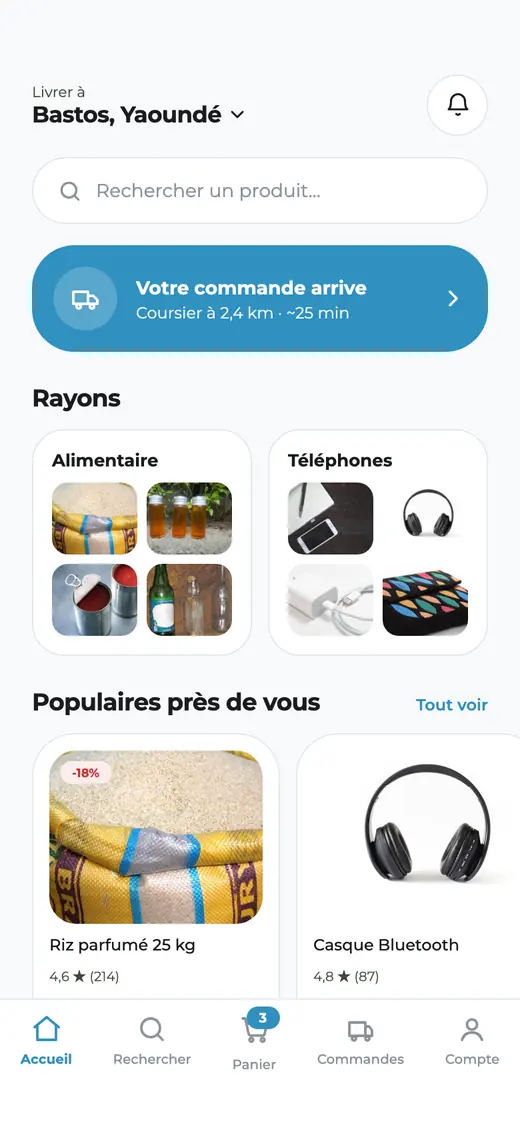
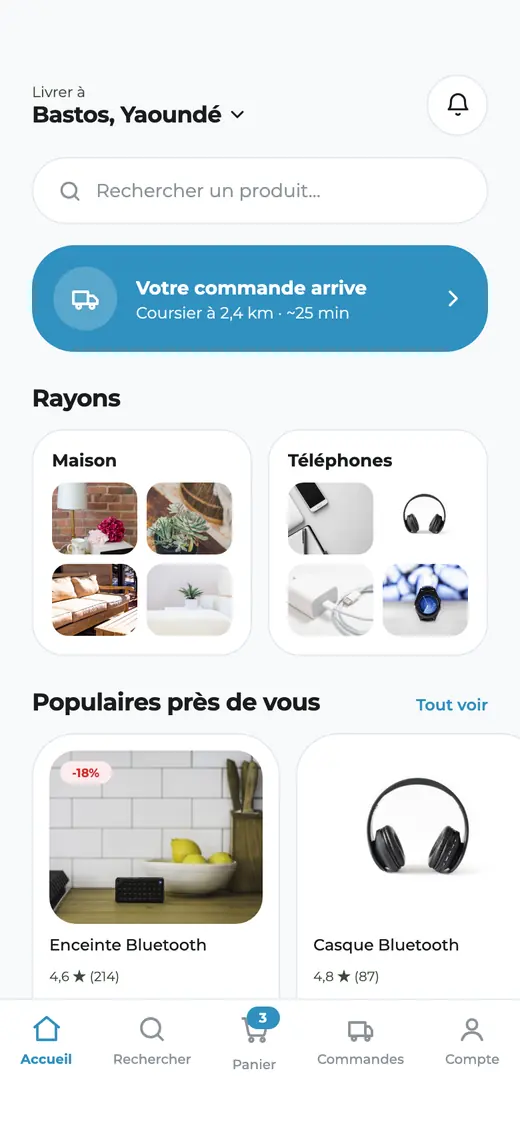
fix(marketplace): aperçus sans alimentation, photos récentes
- Aperçus ordinateur et téléphone refaits : le rayon alimentaire devient
  « Maison & déco », les articles alimentaires (riz, huile, conserves,
  boissons, lait) sont remplacés par de l'audio, de la mode, de la beauté
  et de la maison
- Photos de produits récentes, sans marque, sous licence CC0 (StockSnap,
  rawpixel) au lieu d'anciennes photos Flickr
- Crédits : plus aucune photo CC BY, la liste est masquée ; texte
  alternatif de l'aperçu mis à jour en français et en anglais

Claude-Session: https://claude.ai/code/session_01PScyqGvF8fm3MXjSX2y7fz

diff --git a/src/constants/photoCredits.js b/src/constants/photoCredits.js
@@ -1,9 +1,6 @@
-/** Crédits des photos de produits des aperçus de la marketplace (Openverse, CC0 ou CC BY). */
-export const marketplacePhotoCredits = [
-    { work: "Vintage trash (Crystal Onyx Cave, Cave City, Kentucky, USA) 6", creator: "James St. John", license: "CC BY 2.0", url: "https://www.flickr.com/photos/47445767@N05/52934221211" },
-    { work: "PRECIOSA PermaLux Seed Bead Handbag - Atlas Bijoux", creator: "PRECIOSA ORNELA", license: "CC BY 2.0", url: "https://www.flickr.com/photos/67488680@N04/52550275141" },
-    { work: "Pair of Shoes", creator: "gmahender", license: "CC BY 2.0", url: "https://www.flickr.com/photos/35201330@N04/3980964343" },
-    { work: "PRECIOSA Seed Bead Handbag - Atlas Bijoux", creator: "PRECIOSA ORNELA", license: "CC BY 2.0", url: "https://www.flickr.com/photos/67488680@N04/52550737645" },
-    { work: "homemade lotion bars ingredients wax cocoa butter shea butter", creator: "shalommama", license: "CC BY 2.0", url: "https://www.flickr.com/photos/77516069@N05/10999932996" },
-    { work: "Bottle of Oil and Half of Lemon", creator: "dejankrsmanovic", license: "CC BY 2.0", url: "https://www.flickr.com/photos/155403590@N07/51920214012" },
-];
+/**
+ * Crédits des photos de produits des aperçus de la marketplace. Toutes les
+ * photos actuelles sont en CC0 (aucune attribution requise) : la liste reste
+ * vide. Ajouter ici toute photo sous licence CC BY.
+ */
+export const marketplacePhotoCredits = [];

diff --git a/src/locales/fr/marketplace.js b/src/locales/fr/marketplace.js
@@ -65,7 +65,7 @@ export default {
         kicker: "Aperçu",
         title: "Voilà à quoi ressemblera la marketplace.",
         body: "Écrans en cours de conception : les produits, les prix et les avis sont des exemples.",
-        webAlt: "Page d'accueil de la marketplace sur ordinateur : recherche, rayons alimentaire, téléphones, mode et beauté, commandes à racheter et suivi de commande en cours.",
+        webAlt: "Page d'accueil de la marketplace sur ordinateur : recherche, rayons maison, téléphones et audio, mode et beauté, articles à racheter et suivi de commande en cours.",
         browserLabel: "marketplace.livsight.com",
         mobile: [
             { key: "accueil", caption: "L'accueil sur téléphone", alt: "Accueil de la marketplace sur téléphone : livraison à Bastos, commande en route, rayons et produits populaires." },
@@ -73,7 +73,7 @@ export default {
             { key: "suivi", caption: "Le suivi du livreur", alt: "Suivi en direct du livreur sur une carte, arrivée dans 25 minutes, étapes de la commande." },
         ],
         creditsLabel: "Crédits des photos",
-        creditsIntro: "Photos de produits sous licence CC0 (domaine public) ou CC BY, via Openverse.",
+        creditsIntro: "Photos de produits sous licence CC0 (domaine public), via StockSnap et rawpixel.",
         creditBy: "par",
     },
 };

diff --git a/src/locales/en/marketplace.js b/src/locales/en/marketplace.js
@@ -56,7 +56,7 @@ export default {
         kicker: "Preview",
         title: "This is what the marketplace will look like.",
         body: "Screens still being designed, shown in French: products, prices and reviews are examples.",
-        webAlt: "Marketplace home page on a computer: search, grocery, phones, fashion and beauty aisles, orders to buy again and an order being tracked.",
+        webAlt: "Marketplace home page on a computer: search, home, phones and audio, fashion and beauty aisles, items to buy again and an order being tracked.",
         browserLabel: "marketplace.livsight.com",
         mobile: [
             { key: "accueil", caption: "Home on a phone", alt: "Marketplace home on a phone: delivery to Bastos, an order on its way, aisles and popular products." },
@@ -64,7 +64,7 @@ export default {
             { key: "suivi", caption: "Tracking the driver", alt: "Live tracking of the driver on a map, arriving in 25 minutes, order steps." },
         ],
         creditsLabel: "Photo credits",
-        creditsIntro: "Product photos licensed CC0 (public domain) or CC BY, via Openverse.",
+        creditsIntro: "Product photos licensed CC0 (public domain), via StockSnap and rawpixel.",
         creditBy: "by",
     },
 };

diff --git a/src/pages/MarketplacePage.jsx b/src/pages/MarketplacePage.jsx
@@ -133,6 +133,7 @@ const MarketplacePage = () => {
         <details className='mt-8 text-xs text-ls-muted'>
           <summary className='cursor-pointer font-semibold'>{preview.creditsLabel}</summary>
           <p className='mt-2'>{preview.creditsIntro}</p>
+          {marketplacePhotoCredits.length > 0 && (
           <ul className='mt-2 flex flex-col gap-1'>
             {marketplacePhotoCredits.map((credit) => (
               <li key={credit.url}>
@@ -143,6 +144,7 @@ const MarketplacePage = () => {
               </li>
             ))}
           </ul>
+          )}
         </details>
       </section>
 
